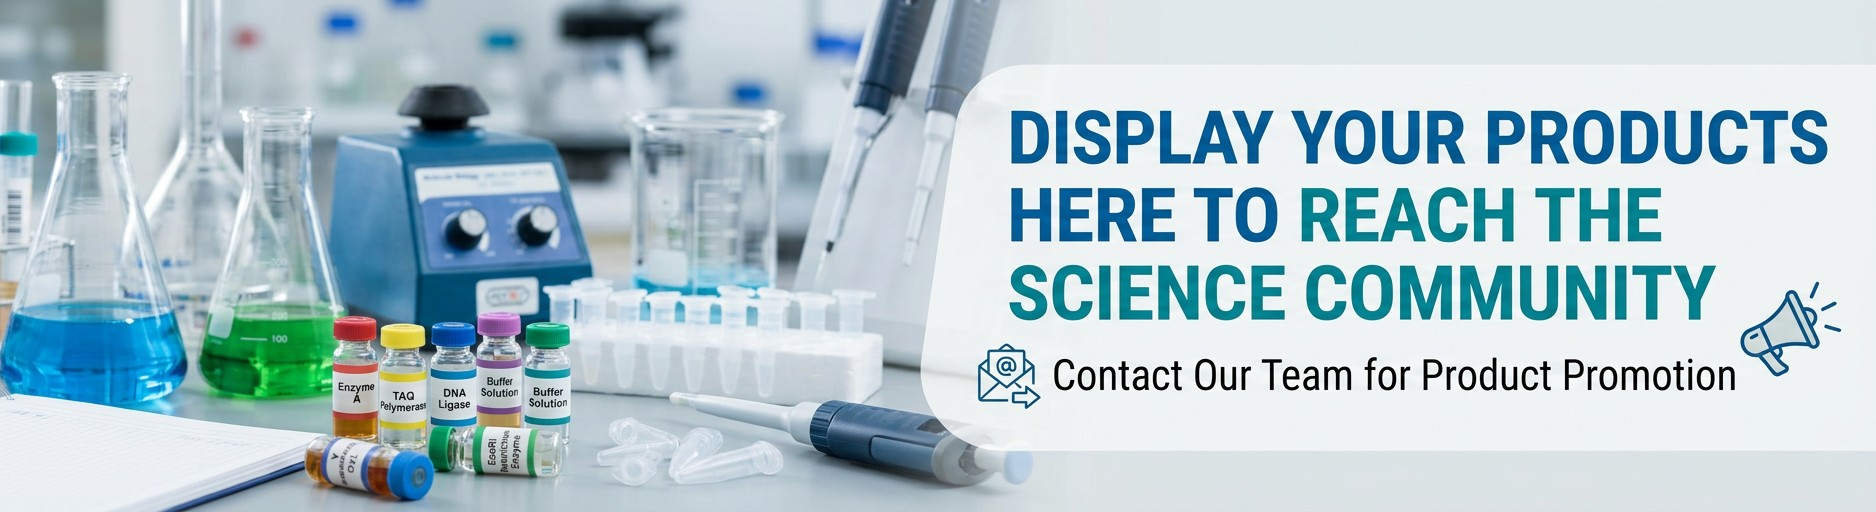
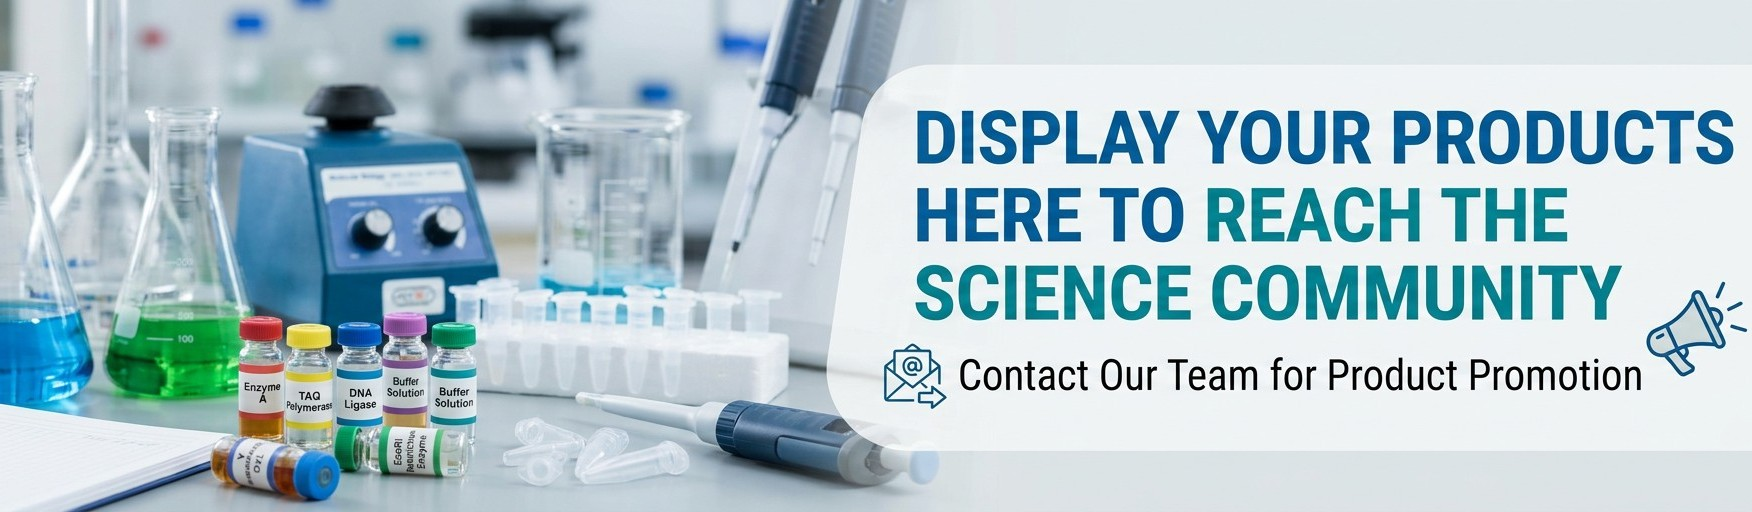
weather_module_integration

diff --git a/frontend/src/components/HomePage.jsx b/frontend/src/components/HomePage.jsx
@@ -34,14 +34,14 @@ const ANALYSIS_MODULES = [
 ];
 
 const PLANTSCIENCE_MODULES = [
-  {
-  id:   "peg-calculator", icon: "◌",title:    "PEG Calculator",subtitle: "PEG 6000 · PEG 8000 · Ψ ↔ g/L",desc:     "Calculate PEG 6000/8000 concentration for a target water potential, or find achieved Ψ from concentration. Forward and reverse modes.",status:   "ready",  color:    "#2D9E5F"},
-  { id: "ptg-primer",     icon: "✦", title: "PTGprimerDesigner",      subtitle: "Golden Gate · PTG-CRISPR",      desc: "Design Golden Gate assembly primers for PTG-CRISPR constructs following the Xie et al. framework.", status: "ready", color: "#2D9E5F", url: "https://rameshram96.github.io/PTGprimerDesigner" },
-  { id: "biosafe",        icon: "◉", title: "BioSafe Primer",         subtitle: "Overlapping PCR Design",        desc: "Design overlapping PCR primers for CRISPR validation with automated specificity checks.",         status: "ready", color: "#1B7A4A", url: "https://rameshram96.github.io/BioSafe-Primer" },
+  { id: "peg-calculator", icon: "◌",title:    "PEG Calculator",subtitle: "PEG 6000 · PEG 8000 · Ψ ↔ g/L",desc:     "Calculate PEG 6000/8000 concentration for a target water potential, or find achieved Ψ from concentration. Forward and reverse modes.",status:   "ready",  color:    "#2D9E5F"},
+  { id: "iari_weather",     icon: "✦", title: "IARI-Weather Data",      subtitle: "Weather Data · ICAR-IARI",      desc: "An automated dashboard that scrapes, archives, and visualises daily meteorological data from ICAR–IARI, New Delhi", status: "ready", color: "#2D9E5F", url: "https://rameshram96.github.io/iari_weather_data/" },
   { id: "hydro-calc",     icon: "◌", title: "Hydroponic Calculator",  subtitle: "Nutrient · Ion Balance",        desc: "Compute nutrient solution recipes with ionic compensation across N-source arms.",                  status: "soon",  color: "#4A9E6E" },
 ];
 
 const BIOINFORMATICS_MODULES = [
+  { id: "ptg-primer",     icon: "✦", title: "PTGprimerDesigner",      subtitle: "Golden Gate · PTG-CRISPR",      desc: "Design Golden Gate assembly primers for PTG-CRISPR constructs following the Xie et al. framework.", status: "ready", color: "#2D9E5F", url: "https://rameshram96.github.io/PTGprimerDesigner" },
+  { id: "biosafe",        icon: "◉", title: "BioSafe Primer",         subtitle: "Overlapping PCR Design",        desc: "Design overlapping PCR primers for CRISPR validation with automated specificity checks.",         status: "ready", color: "#1B7A4A", url: "https://rameshram96.github.io/BioSafe-Primer" },
   { id: "haplo",          icon: "◑", title: "Haplotype Viewer",       subtitle: "SNP · Association · 3K Panel",  desc: "Visualize haplotype-phenotype associations from SNP data, with subpopulation filtering.",         status: "soon",  color: "#5B3FA6" },
   { id: "variant",        icon: "⬟", title: "Variant Annotator",      subtitle: "VCF · Effect · Gene Model",     desc: "Annotate plant genome variants with functional effect predictions and gene context.",            status: "soon",  color: "#7B5EA7" },
 ];
@@ -275,11 +275,10 @@ export default function HomePage() {
               boxShadow: "0 2px 10px rgba(26,58,26,0.25)",
               transition: "opacity 0.15s",
                 }}
-  onMouseEnter={e => e.currentTarget.style.opacity = "0.88"}
-  onMouseLeave={e => e.currentTarget.style.opacity = "1"}
->
-  Go to Blog →
-</button>
+              onMouseEnter={e => e.currentTarget.style.opacity = "0.88"}
+              onMouseLeave={e => e.currentTarget.style.opacity = "1"}>
+              Go to Blog →
+            </button>
           ) : (
             <div style={{ display: "grid", gridTemplateColumns: "repeat(auto-fill, minmax(290px, 1fr))", gap: "0.85rem", marginBottom: "3rem" }}>
               {BLOG_POSTS.slice(0, 3).map(post => <BlogCard key={post.id} post={post} />)}